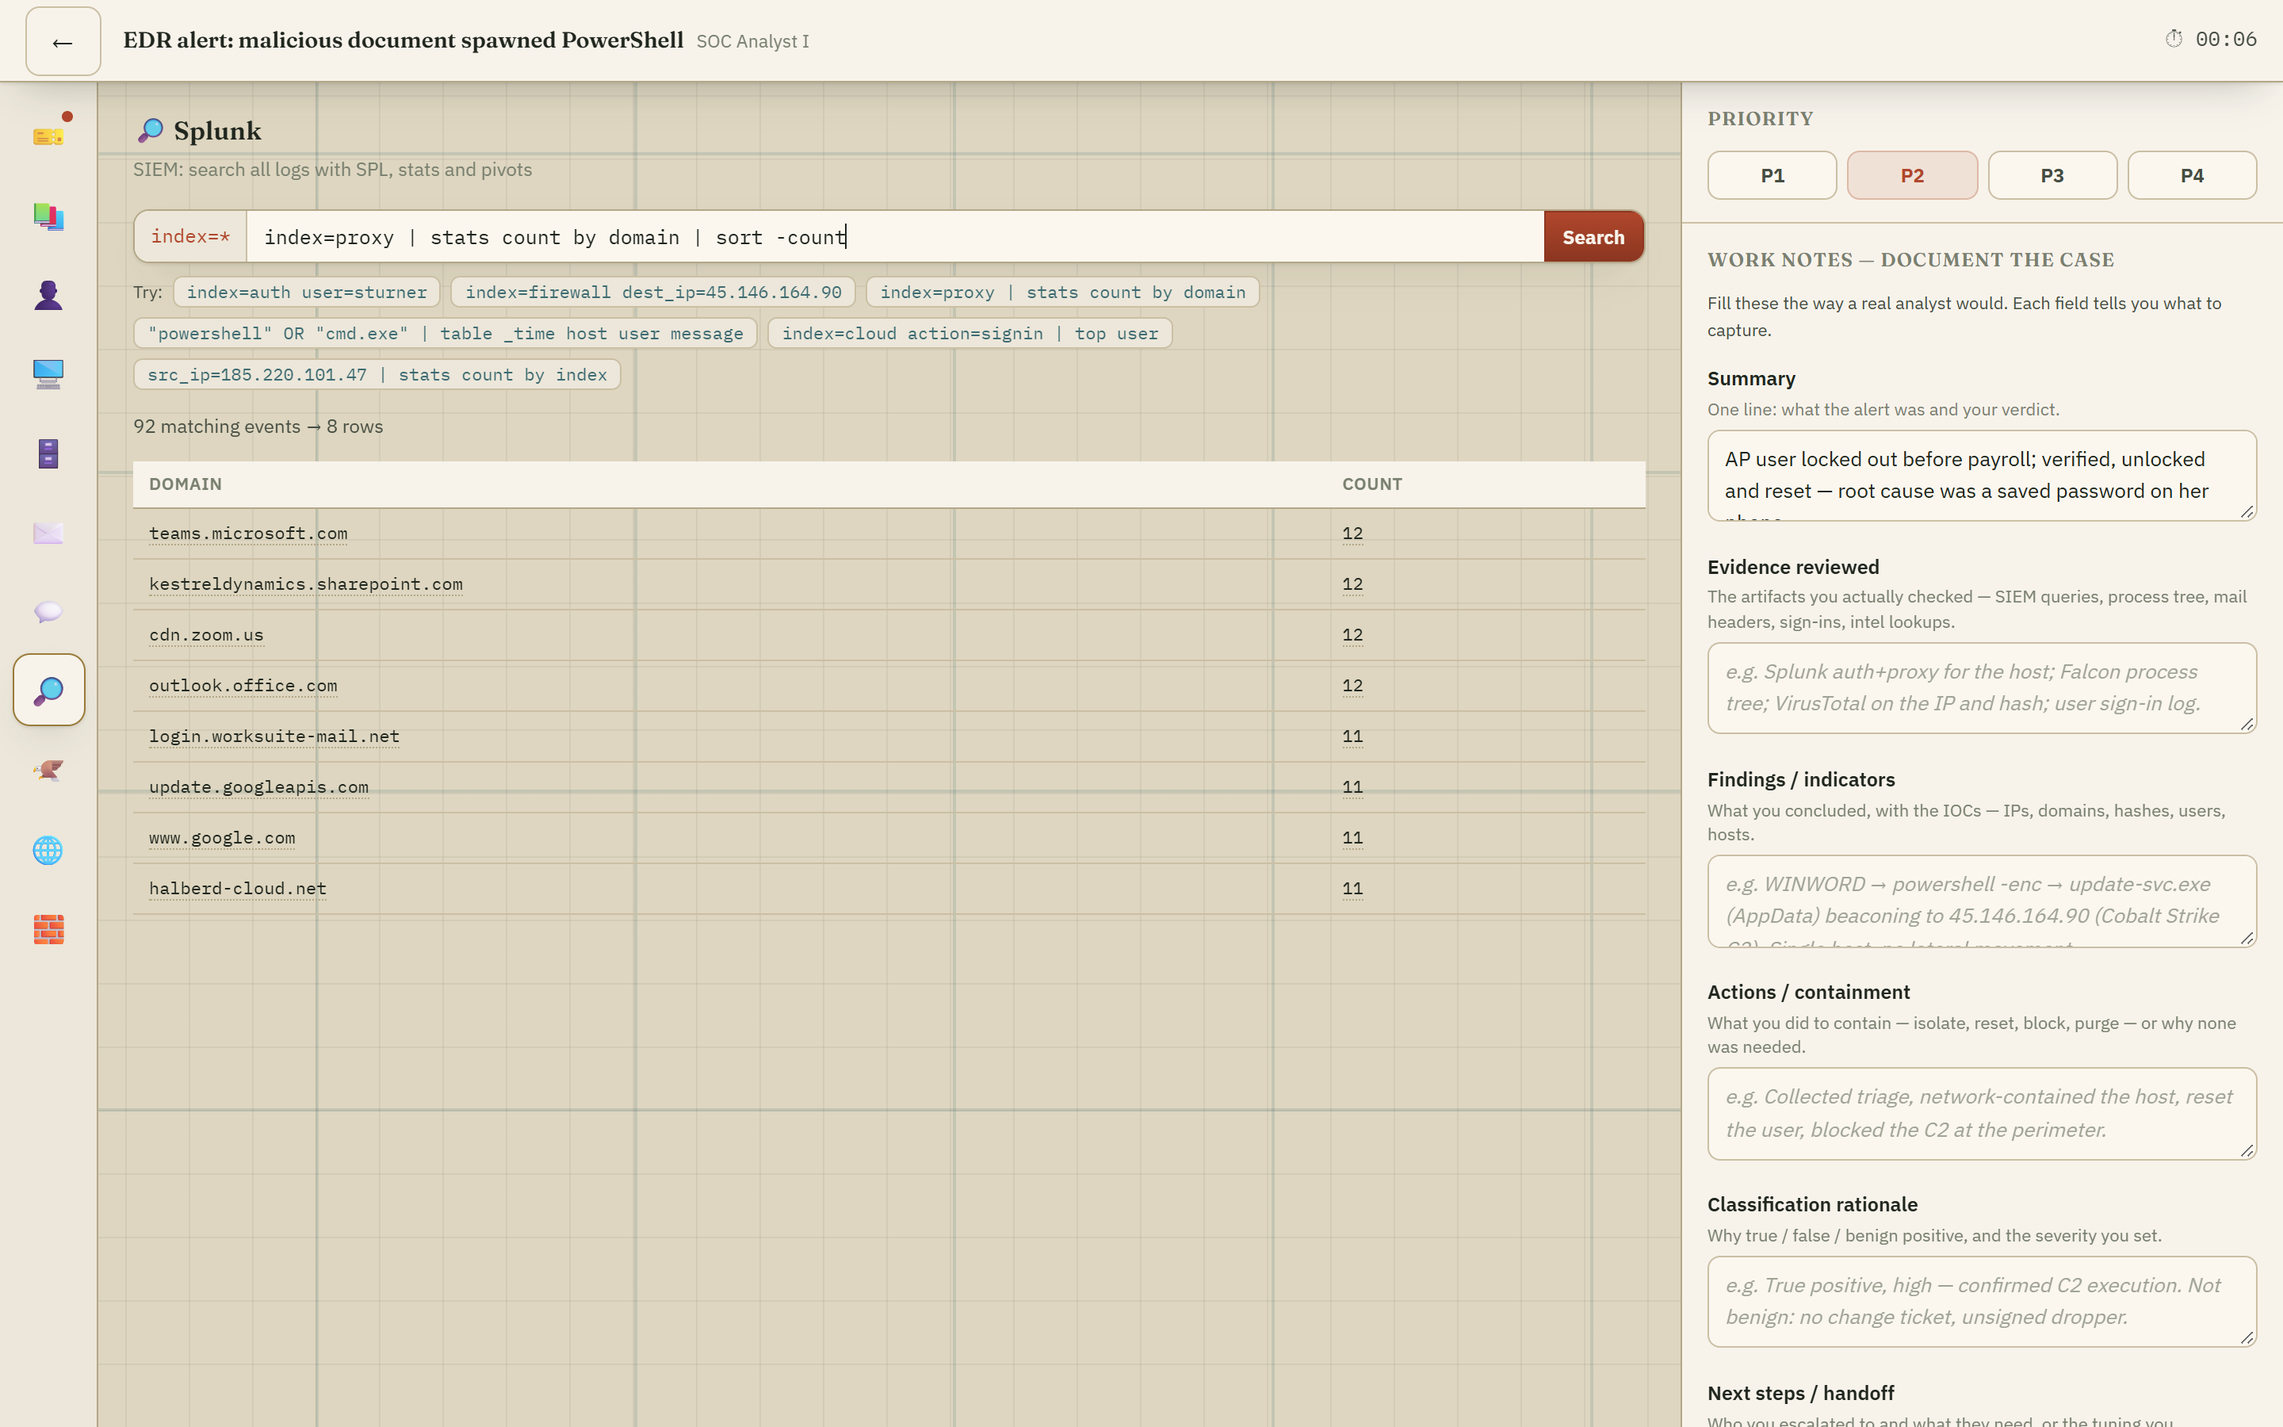
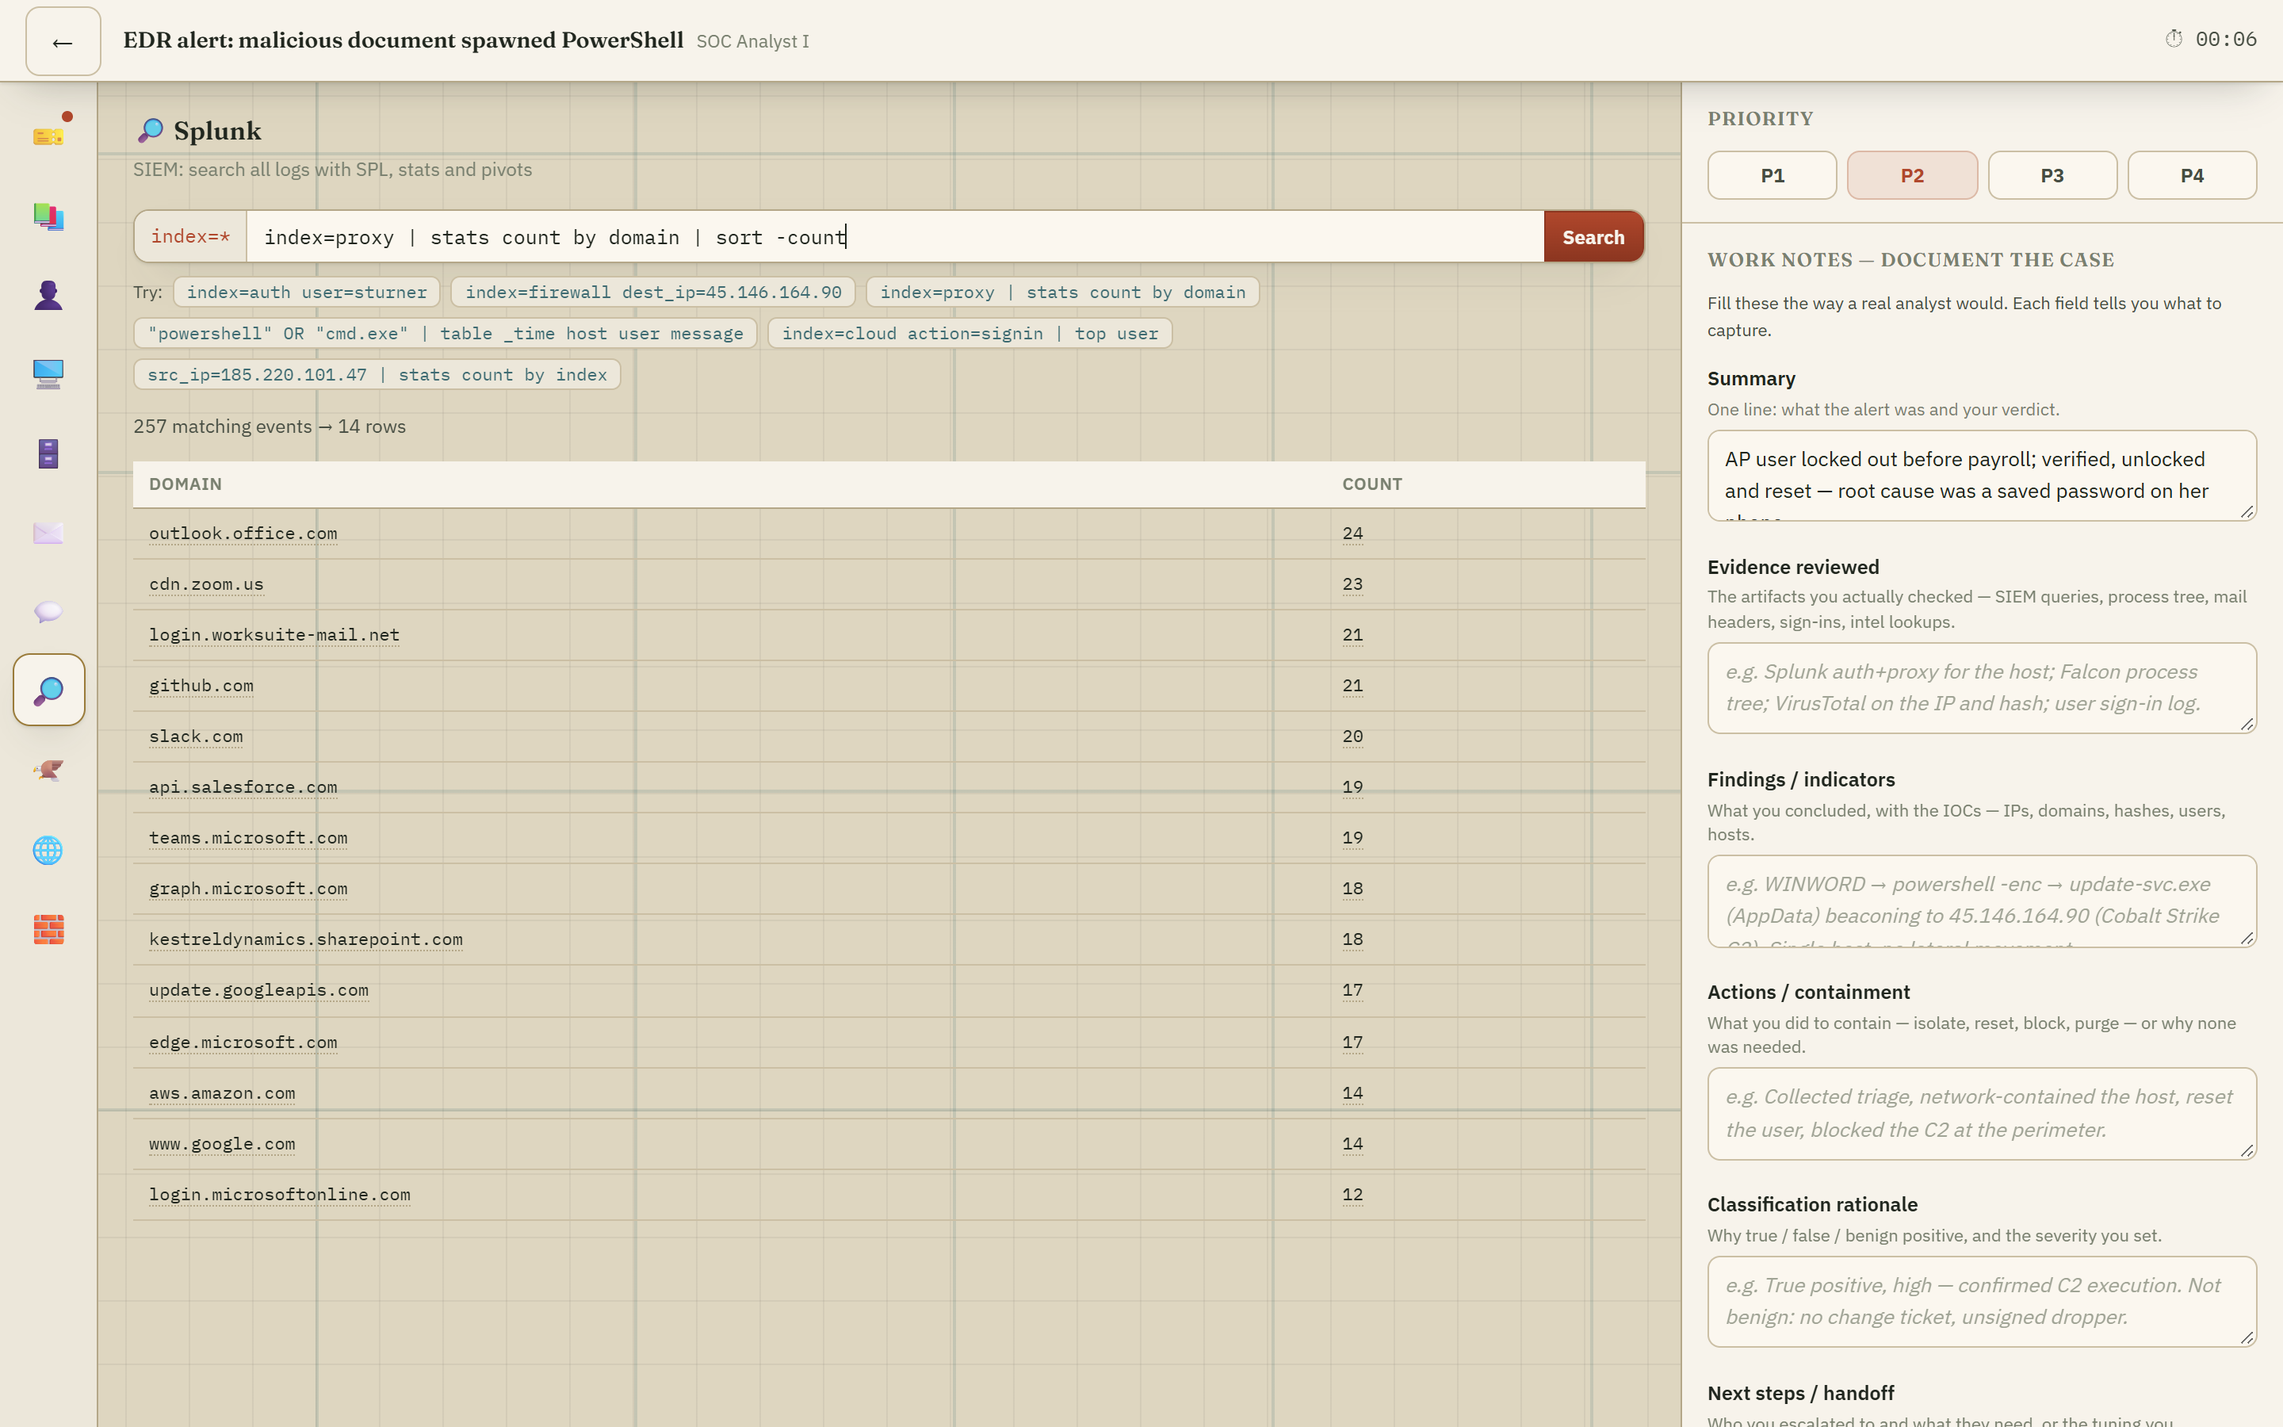
Deeper SOC data + SPL engine optimization (roadmap step 3)
Baseline log corpus grows from ~250 to ~1,170 realistic, deterministic events
across 10 sources (auth 4624/4625/4769, dns, proxy, firewall incl. EDR
heartbeats and internet scan noise, cloud sign-ins, email deliveries, DHCP,
Windows telemetry, VPN) so hunting means filtering real noise. Grading is
unaffected (it reads the action log, not the logs).

SPL engine: rows are built once per logs array with a precomputed lowercased
haystack, cached by array identity, so free-text search no longer
JSON.stringifies every row per query (~0.3ms/search over the larger set). Added
snake_case field aliases (logon_type, eventid, dst_port, ...). Screenshots
regenerated. All 96 scenarios still validate clean.

diff --git a/src/engine/world.ts b/src/engine/world.ts
@@ -647,30 +647,127 @@ Remote users: ship from stock with a prepaid return label for the old device; lo
 // ----------------------------------------------------------------------------
 // Baseline logs (noise). Scenarios add signal on top.
 // ----------------------------------------------------------------------------
+// Deterministic PRNG so the baseline corpus is identical every load (a training
+// tool should be reproducible; scenarios layer their signal on top).
+function mulberry32(seed: number): () => number {
+  let a = seed >>> 0;
+  return () => {
+    a |= 0; a = (a + 0x6D2B79F5) | 0;
+    let t = Math.imul(a ^ (a >>> 15), 1 | a);
+    t = (t + Math.imul(t ^ (t >>> 7), 61 | t)) ^ t;
+    return ((t ^ (t >>> 14)) >>> 0) / 4294967296;
+  };
+}
+
+// Benign SaaS the whole company talks to all day — the noise a hunter filters.
+const SAAS: { d: string; ip: string; cat: string }[] = [
+  { d: 'teams.microsoft.com', ip: '52.113.194.132', cat: 'collab' },
+  { d: 'outlook.office.com', ip: '52.96.1.10', cat: 'mail' },
+  { d: 'kestreldynamics.sharepoint.com', ip: '13.107.136.9', cat: 'files' },
+  { d: 'login.microsoftonline.com', ip: '20.190.160.20', cat: 'sso' },
+  { d: 'cdn.zoom.us', ip: '170.114.52.2', cat: 'collab' },
+  { d: 'github.com', ip: '140.82.113.3', cat: 'dev' },
+  { d: 'api.salesforce.com', ip: '104.109.10.10', cat: 'crm' },
+  { d: 'update.googleapis.com', ip: '142.250.72.4', cat: 'update' },
+  { d: 'www.google.com', ip: '142.250.72.4', cat: 'web' },
+  { d: 'slack.com', ip: '3.89.11.1', cat: 'collab' },
+  { d: 'login.worksuite-mail.net', ip: '52.96.1.10', cat: 'sso' },
+  { d: 'graph.microsoft.com', ip: '20.190.161.4', cat: 'api' },
+  { d: 'edge.microsoft.com', ip: '13.107.5.88', cat: 'update' },
+  { d: 'aws.amazon.com', ip: '52.94.236.2', cat: 'cloud' },
+];
+const EDR_CLOUD = { d: 'halberd-cloud.net', ip: '34.117.59.81' };
+
 function baselineLogs(users: DirUser[], hosts: Host[]): LogEvent[] {
+  const rnd = mulberry32(0xC0FFEE);
+  const pick = <T,>(arr: T[]): T => arr[Math.floor(rnd() * arr.length)];
   const logs: LogEvent[] = [];
-  const domains = ['login.worksuite-mail.net', 'teams.microsoft.com', 'update.googleapis.com', 'kestreldynamics.sharepoint.com', 'cdn.zoom.us', 'www.google.com', 'outlook.office.com', 'halberd-cloud.net'];
-  for (let i = 0; i < hosts.length; i++) {
-    const h = hosts[i];
+  const WINDOW = 48 * 60; // last 48h in minutes
+  const t = () => Math.floor(rnd() * WINDOW) + 3; // minutes ago within the window
+
+  // ---- per-endpoint activity: web, EDR heartbeats, auth, OS telemetry ----
+  for (const h of hosts) {
     const u = users.find((x) => x.id === h.owner);
-    for (let j = 0; j < 4; j++) {
-      const d = domains[(i + j * 3) % domains.length];
-      logs.push({ time: ago(30 + i * 9 + j * 17), source: 'dns', host: h.id, srcIp: h.ip, domain: d, action: 'query', message: `A ${d}` });
-      logs.push({ time: ago(30 + i * 9 + j * 17), source: 'proxy', host: h.id, user: u?.id, srcIp: h.ip, domain: d, url: `https://${d}/`, action: 'allow', dstPort: 443, message: `GET https://${d}/ 200` });
+    const remote = h.site.startsWith('Remote');
+    // web / dns browsing
+    const hits = 8 + Math.floor(rnd() * 8);
+    for (let j = 0; j < hits; j++) {
+      const s = pick(SAAS);
+      const when = t();
+      logs.push({ time: ago(when), source: 'dns', host: h.id, srcIp: h.ip, domain: s.d, action: 'query', message: `A? ${s.d} -> ${s.ip}`, fields: { qtype: 'A' } });
+      logs.push({ time: ago(when), source: 'proxy', host: h.id, user: u?.id, srcIp: h.ip, dstIp: s.ip, domain: s.d, url: `https://${s.d}/`, action: 'allow', dstPort: 443, message: `GET https://${s.d}/ 200 (${s.cat})`, fields: { status: 200, category: s.cat } });
     }
+    // EDR agent beacons to the vendor cloud
+    for (let j = 0; j < 5 + Math.floor(rnd() * 4); j++) {
+      logs.push({ time: ago(t()), source: 'firewall', host: h.id, srcIp: h.ip, dstIp: EDR_CLOUD.ip, dstPort: 443, action: 'allow', message: `ALLOW ${h.ip} -> ${EDR_CLOUD.ip}:443 ${EDR_CLOUD.d} (EDR heartbeat)` });
+    }
+    logs.push({ time: ago(t()), source: 'edr', host: h.id, action: 'health', message: `Halberd sensor healthy on ${h.id} (definitions current)`, fields: { agent: 'healthy' } });
+    // DHCP lease
+    if (h.network.dhcp) logs.push({ time: ago(t()), source: 'dhcp', host: h.id, srcIp: h.ip, action: 'ack', message: `DHCPACK ${h.ip} to ${h.mac} lease 8h`, fields: { mac: h.mac } });
+    // Windows OS telemetry
+    logs.push({ time: ago(t()), source: 'windows', host: h.id, action: 'update', message: `Windows Update: scan completed, ${Math.floor(rnd() * 3)} updates pending`, fields: { eventId: 43 } });
     if (u) {
-      logs.push({ time: ago(200 + i * 13), source: 'auth', host: h.id, user: u.id, srcIp: h.ip, action: 'logon', message: `4624 Logon type 2 (Interactive) ${u.id} on ${h.id}`, fields: { logonType: 2, eventId: 4624 } });
-      logs.push({ time: ago(180 + i * 13), source: 'cloud', user: u.id, srcIp: u.location.startsWith('Remote') ? '73.14.22.190' : h.ip, action: 'signin', message: `WorkSuite sign-in success ${u.id} app=Mail mfa=satisfied`, fields: { result: 'success', app: 'Mail', mfa: 'satisfied' } });
+      const srcIp = remote ? (u.recentSignIns[0]?.ip ?? '73.14.22.190') : h.ip;
+      // morning interactive logon + a couple of unlocks + logoff
+      logs.push({ time: ago(400 + Math.floor(rnd() * 200)), source: 'auth', host: h.id, user: u.id, srcIp, action: 'logon', message: `4624 An account was successfully logged on. Account: ${u.id}. Logon Type: 2 (Interactive). Host: ${h.id}`, fields: { eventId: 4624, logonType: 2 } });
+      for (let j = 0; j < 2 + Math.floor(rnd() * 3); j++) {
+        logs.push({ time: ago(t()), source: 'auth', host: h.id, user: u.id, srcIp, action: 'unlock', message: `4624 Logon Type: 7 (Unlock). Account: ${u.id} on ${h.id}`, fields: { eventId: 4624, logonType: 7 } });
+      }
+      // network logon to the file server (SMB) — type 3 is extremely common/benign
+      logs.push({ time: ago(t()), source: 'auth', host: 'DEN-FS01', user: u.id, srcIp: h.ip, action: 'logon', message: `4624 Logon Type: 3 (Network). Account: ${u.id} from ${h.id} to \\\\FS01`, fields: { eventId: 4624, logonType: 3 } });
+      // occasional benign mistype at the keyboard
+      if (rnd() < 0.25) logs.push({ time: ago(t()), source: 'auth', host: h.id, user: u.id, srcIp, action: 'fail', message: `4625 Failed logon. Account: ${u.id}. Reason: bad password (user mistype). Host: ${h.id}`, fields: { eventId: 4625, logonType: 2 } });
     }
   }
-  // Some ambient firewall noise
-  for (let k = 0; k < 12; k++) {
-    logs.push({ time: ago(15 + k * 23), source: 'firewall', srcIp: `203.0.113.${20 + k}`, dstIp: '198.51.100.10', dstPort: [22, 3389, 445, 443][k % 4], action: 'deny', message: `DENY inbound TCP 203.0.113.${20 + k} -> 198.51.100.10:${[22, 3389, 445, 443][k % 4]} (internet scan noise)` });
+
+  // ---- per-user cloud sign-ins + inbound mail ----
+  const mailSenders = ['newsletter@atlassian.com', 'notifications@github.com', 'no-reply@salesforce.com', 'calendar@zoom.us', 'billing@microsoft.com', 'hr-updates@kestreldynamics.com'];
+  for (const u of users) {
+    if (u.id.startsWith('svc_')) continue;
+    const remote = u.location.startsWith('Remote');
+    const ip = remote ? (u.recentSignIns[0]?.ip ?? '73.14.22.190') : (hosts.find((h) => h.owner === u.id)?.ip ?? '10.10.20.30');
+    for (let j = 0; j < 3 + Math.floor(rnd() * 4); j++) {
+      const app = pick(['WorkSuite Mail', 'SharePoint', 'Teams', 'Salesforce', 'GitHub SSO']);
+      logs.push({ time: ago(t()), source: 'cloud', user: u.id, srcIp: ip, action: 'signin', message: `Sign-in success user=${u.id} app=${app} mfa=satisfied ip=${ip}`, fields: { result: 'success', app, mfa: 'satisfied' } });
+    }
+    for (let j = 0; j < 2 + Math.floor(rnd() * 3); j++) {
+      const from = pick(mailSenders);
+      logs.push({ time: ago(t()), source: 'email', user: u.id, action: 'deliver', message: `Delivered to ${u.id}@kestreldynamics.com from ${from} (spf=pass dkim=pass dmarc=pass)`, fields: { from, verdict: 'clean' } });
+    }
   }
-  logs.push({ time: ago(300), source: 'vpn', user: 'cflores', srcIp: '73.14.22.190', action: 'connect', message: 'VPN session established user=cflores assigned=10.10.99.14 geo=Phoenix,US mfa=satisfied' });
-  logs.push({ time: ago(280), source: 'vpn', user: 'hsato', srcIp: '67.160.8.51', action: 'connect', message: 'VPN session established user=hsato assigned=10.10.99.22 geo=Seattle,US mfa=satisfied' });
-  logs.push({ time: ago(420), source: 'vpn', user: 'abaxter', srcIp: '98.42.117.9', action: 'connect', message: 'VPN session established user=abaxter assigned=10.10.99.40 geo=Austin,US mfa=satisfied' });
+
+  // ---- remote workers on the VPN ----
+  for (const [uid, ip, geo, asn] of [['cflores', '73.14.22.190', 'Phoenix,US', '10.10.99.14'], ['hsato', '67.160.8.51', 'Seattle,US', '10.10.99.22'], ['abaxter', '98.42.117.9', 'Austin,US', '10.10.99.40']] as const) {
+    for (let j = 0; j < 2 + Math.floor(rnd() * 2); j++) {
+      logs.push({ time: ago(t()), source: 'vpn', user: uid, srcIp: ip, action: 'connect', message: `VPN session established user=${uid} assigned=${asn} geo=${geo} mfa=satisfied` });
+      logs.push({ time: ago(t()), source: 'vpn', user: uid, srcIp: ip, action: 'disconnect', message: `VPN session closed user=${uid} duration=${1 + Math.floor(rnd() * 6)}h` });
+    }
+  }
+
+  // ---- perimeter background scanning noise (internet is loud) ----
+  const ports = [22, 23, 80, 443, 445, 3389, 1433, 8080, 5900];
+  for (let k = 0; k < 90; k++) {
+    const oct = 20 + Math.floor(rnd() * 230);
+    const port = pick(ports);
+    logs.push({ time: ago(t()), source: 'firewall', srcIp: `${pick(['203.0.113', '198.51.100', '141.98.11', '89.248.165', '193.32.162', '92.63.197'])}.${oct}`, dstIp: '198.51.100.10', dstPort: port, action: 'deny', message: `DENY inbound TCP ${oct} -> 198.51.100.10:${port} (internet scan)` });
+  }
+
+  // ---- server-side: DCs, file server, app server, backups, scanner ----
+  for (const svcAcct of ['svc_backup', 'svc_scanner']) {
+    for (let j = 0; j < 6; j++) {
+      logs.push({ time: ago(t()), source: 'auth', host: 'DEN-DC01', user: svcAcct, action: 'kerberos', message: `4769 Kerberos service ticket requested by ${svcAcct} (service account, scheduled)`, fields: { eventId: 4769 } });
+    }
+  }
+  for (let j = 0; j < 20; j++) {
+    const h = pick(hosts);
+    logs.push({ time: ago(t()), source: 'windows', host: 'DEN-FS01', user: h.owner, action: 'smb', message: `5140 A network share object was accessed. \\\\FS01\\Shared by ${h.owner ?? 'system'}`, fields: { eventId: 5140 } });
+  }
+  logs.push({ time: ago(60 * 9), source: 'edr', host: 'DEN-BKP01', user: 'svc_backup', action: 'backup', message: 'FS01-Daily-Shares backup completed successfully (30 restore points)' });
   logs.push({ time: ago(60 * 6), source: 'edr', host: 'DEN-DC01', user: 'svc_scanner', action: 'info', message: 'Scheduled vulnerability scan started from 10.10.10.70 (svc_scanner) - authorized weekly scan', process: 'nessusd' });
+  for (let j = 0; j < 8; j++) {
+    logs.push({ time: ago(t()), source: 'dhcp', host: 'DEN-DC01', action: 'ack', message: `DHCPACK issued from Denver-Users scope (${118 + j}/231 leases in use)` });
+  }
+
   return logs.sort((a, b) => a.time.localeCompare(b.time));
 }
 

diff --git a/src/engine/spl.ts b/src/engine/spl.ts
@@ -57,8 +57,9 @@ export function eventToRow(e: LogEvent): SplRow {
 
 const FIELD_ALIASES: Record<string, string> = {
   ip: 'src_ip', srcip: 'src_ip', source_ip: 'src_ip', dst: 'dest_ip', dstip: 'dest_ip',
-  destination_ip: 'dest_ip', port: 'dest_port', dstport: 'dest_port', username: 'user',
+  destination_ip: 'dest_ip', port: 'dest_port', dstport: 'dest_port', dst_port: 'dest_port', username: 'user',
   account: 'user', computer: 'host', hostname: 'host', dvc: 'host', app: 'app', signature: 'message',
+  logon_type: 'logonType', logontype: 'logonType', eventid: 'eventId', event_id: 'eventId', event_code: 'eventId', eventcode: 'eventId',
 };
 function canon(field: string): string {
   const f = field.toLowerCase();
@@ -100,7 +101,7 @@ function parseSearchTerms(text: string): Term[] {
 
 function matchTerm(row: SplRow, t: Term): boolean {
   if (t.op === 'term') {
-    const hay = JSON.stringify(row).toLowerCase();
+    const hay = (row as { __hay?: string }).__hay ?? JSON.stringify(row).toLowerCase();
     const hit = t.value.includes('*') ? wildToRe(t.value).test(hay) || hay.includes(t.value.replace(/\*/g, '').toLowerCase()) : hay.includes(t.value.toLowerCase());
     return t.neg ? !hit : hit;
   }
@@ -127,9 +128,23 @@ function applySearch(rows: SplRow[], text: string): SplRow[] {
   return rows.filter((r) => terms.every((t) => matchTerm(r, t)));
 }
 
+// Build rows once per logs array and precompute a lowercased haystack per row,
+// so free-text term search doesn't JSON.stringify every row on every keystroke.
+let rowCache: { logs: LogEvent[]; len: number; rows: SplRow[] } | null = null;
+function rowsFor(events: LogEvent[]): SplRow[] {
+  if (rowCache && rowCache.logs === events && rowCache.len === events.length) return rowCache.rows;
+  const rows = events.map((e) => {
+    const r = eventToRow(e);
+    (r as { __hay?: string }).__hay = JSON.stringify(r).toLowerCase();
+    return r;
+  }).sort((a, b) => String(b._time).localeCompare(String(a._time)));
+  rowCache = { logs: events, len: events.length, rows };
+  return rows;
+}
+
 export function runSpl(events: LogEvent[], query: string): SplResult {
   const q = query.trim();
-  let rows = events.map(eventToRow).sort((a, b) => String(b._time).localeCompare(String(a._time)));
+  let rows = rowsFor(events);
   if (!q) return { kind: 'events', columns: [], rows, eventCount: rows.length };
 
   const stages = q.split('|').map((s) => s.trim());

diff --git a/README.md b/README.md
@@ -80,7 +80,7 @@ Garrison's consoles are styled after the products a real best-of-breed SOC runs,
 
 ### Investigate like the real thing
 
-Search logs in SPL, then pivot — the same query language you'll write on the job:
+Search a realistic, noisy multi-source log set (auth, dns, proxy, firewall, cloud, email, EDR, VPN, DHCP) in SPL, then pivot — the same query language you'll write on the job. Hunting here means filtering genuine noise, not spotting the one obvious line:
 
 ![Splunk — SPL search with stats](docs/screenshots/splunk.png)
 
